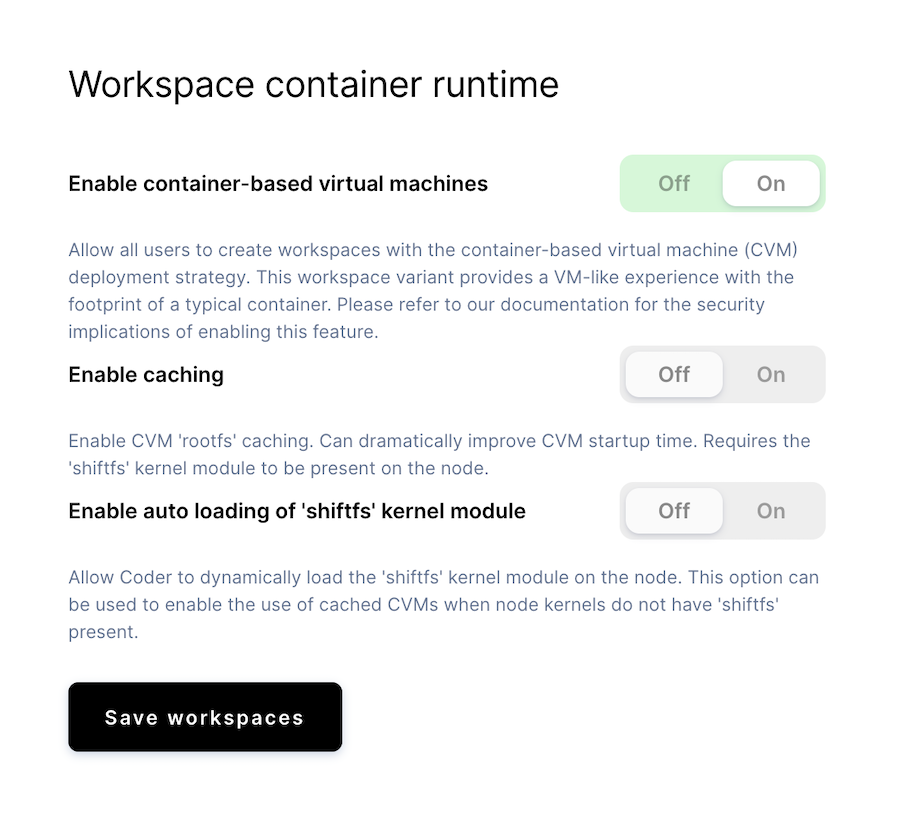
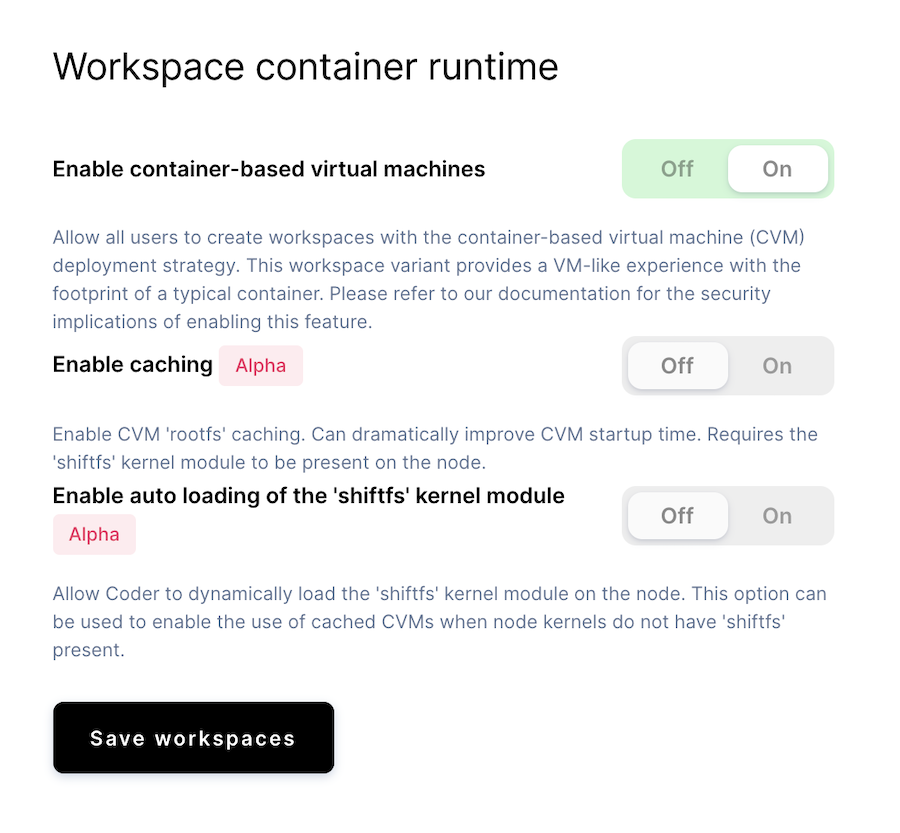
Apply changes based on review

diff --git a/admin/workspace-management/cvms.md b/admin/workspace-management/cvms.md
@@ -43,11 +43,18 @@ AMD GPUs at this time.
 
 ### Enabling cached CVMs
 
-To improve the startup time for CVM-based workspaces, you can enable
-caching.
-This feature requires
-[the `shiftfs` kernel](https://github.com/linuxkit/linuxkit/tree/master/projects/shiftfs)
-to be present on the node. Some distributions such as Ubuntu include `shiftfs` as part of their kernel. If you are unsure if `shiftfs` is present on your nodes you can run `modinfo shiftfs`. If no output is returned then you do not have `shiftfs` installed. If you do not wish to install `shiftfs` yourself then you can have Coder automatically install the module for you. It is important that you do not have secure boot enabled if you want Coder to install `shiftfs`.
+> Cached CVMs are an **alpha** feature.
+
+To improve the startup time for CVM-based workspaces, you can enable caching.
+
+Cached CVMs require the `shiftfs` kernel to be present on the node. Some
+distributions (such as Ubuntu) include `shiftfs`. If you're unsure if `shiftfs`
+is present on your nodes, you can check by running `modinfo shiftfs`. If no
+output is returned, then you do not have `shiftfs` installed.
+
+If you don't want to install `shiftfs` yourself, you can have Coder install the
+module automatically for you. **It is important that you do not have secure boot
+enabled if you want Coder to install `shiftfs` on your behalf.**
 
 ![Cached CVMs](../../assets/admin/cached-cvms.png)
 
